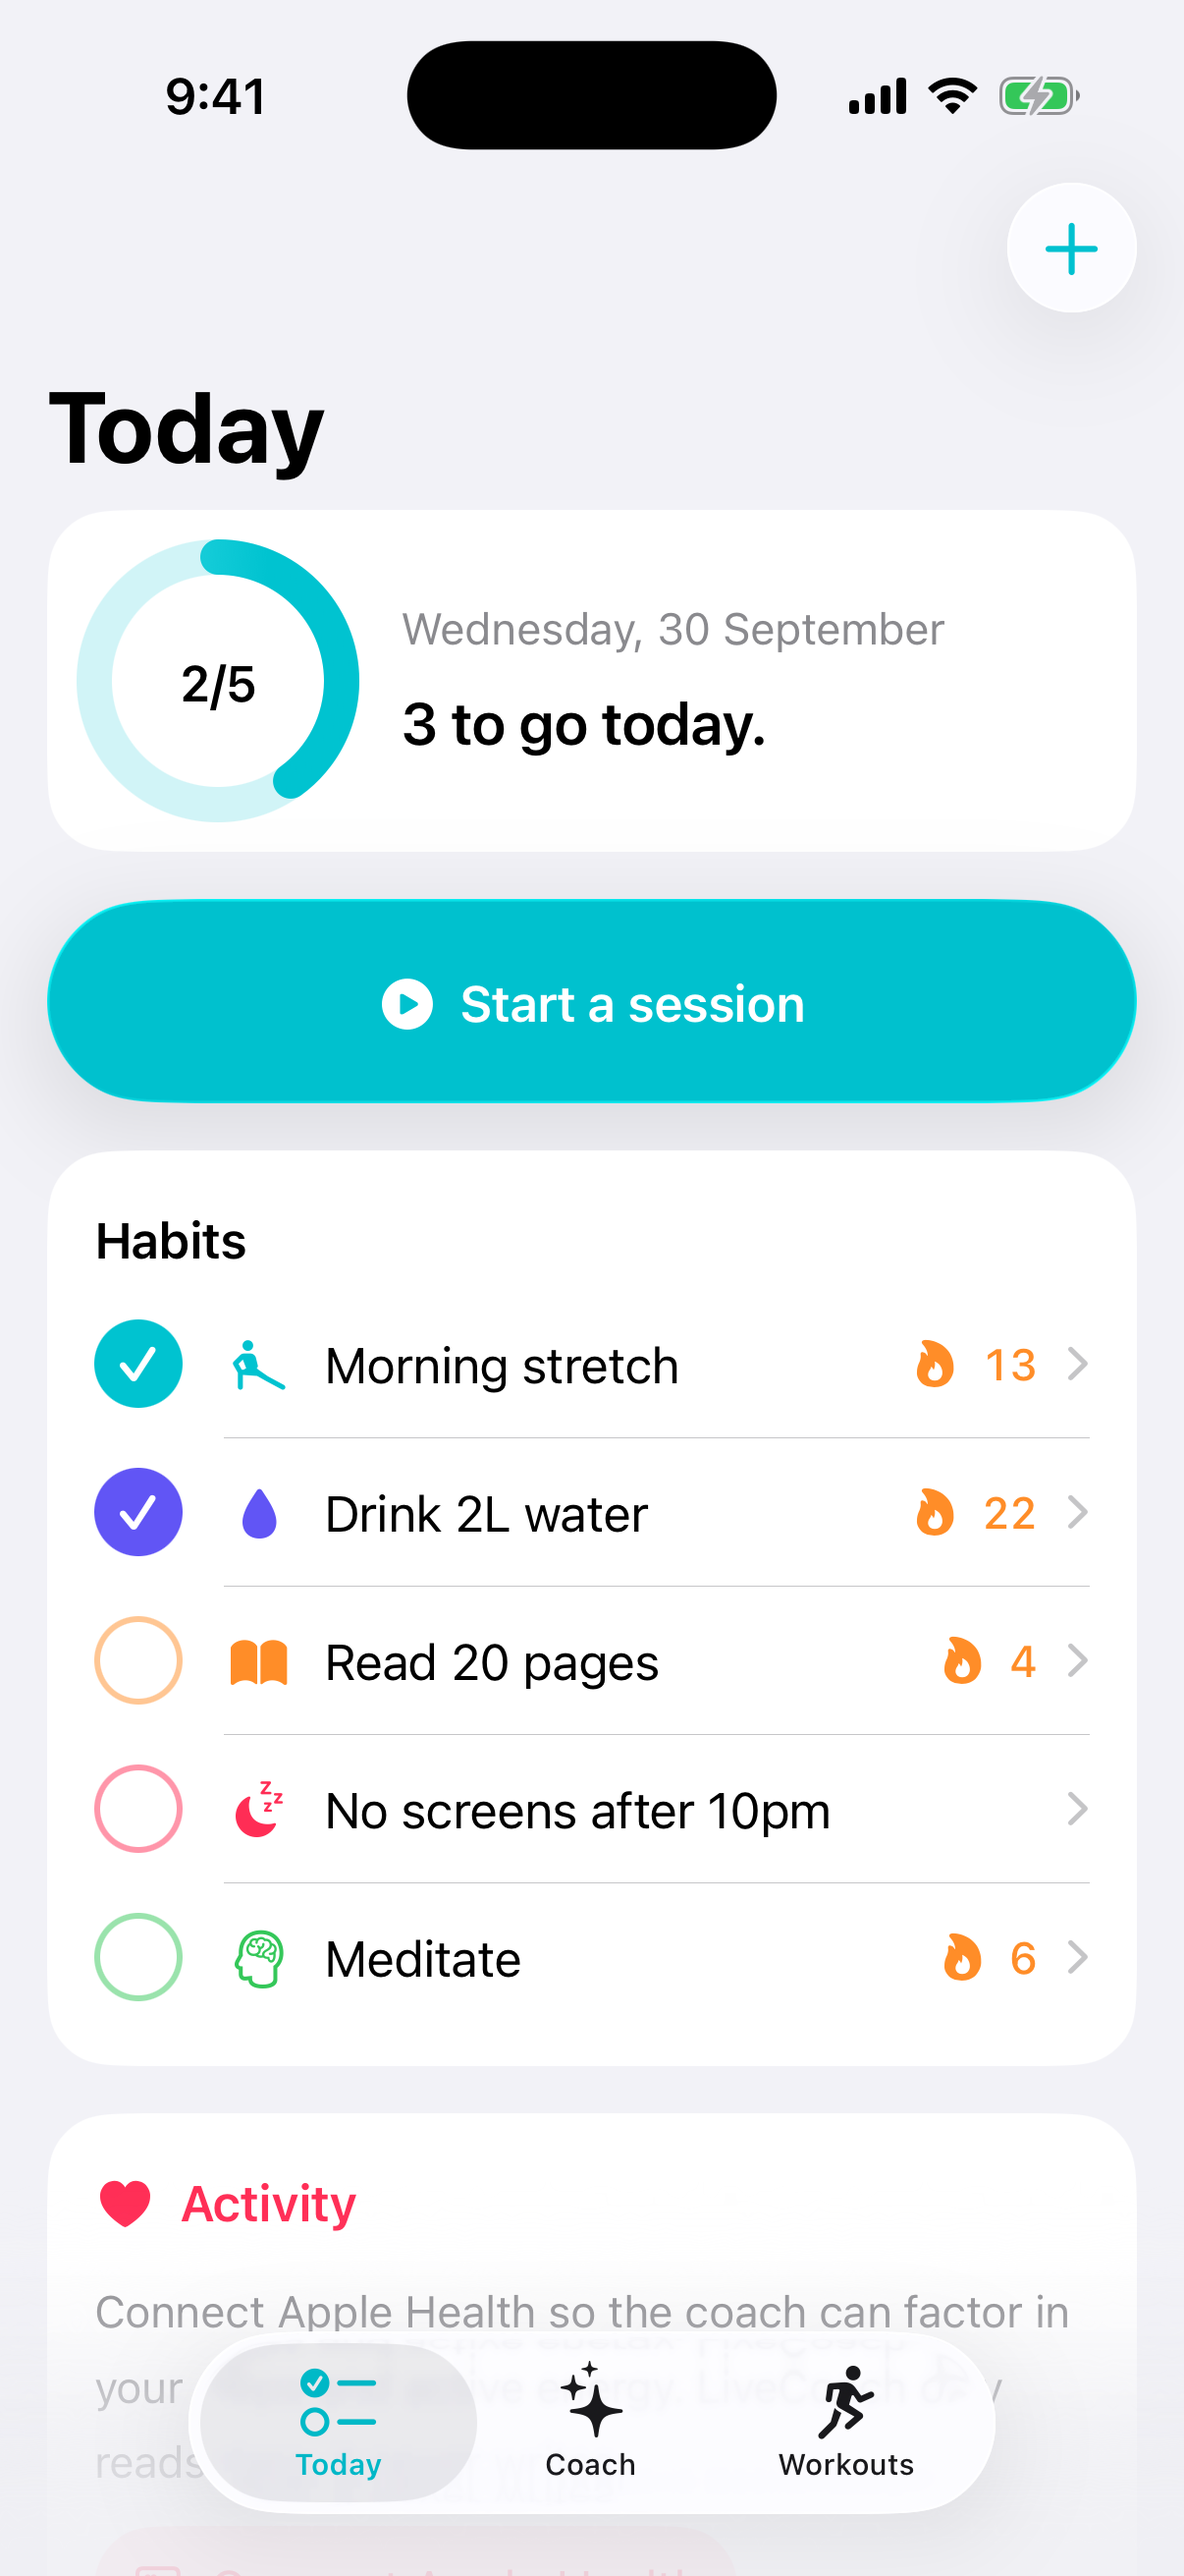
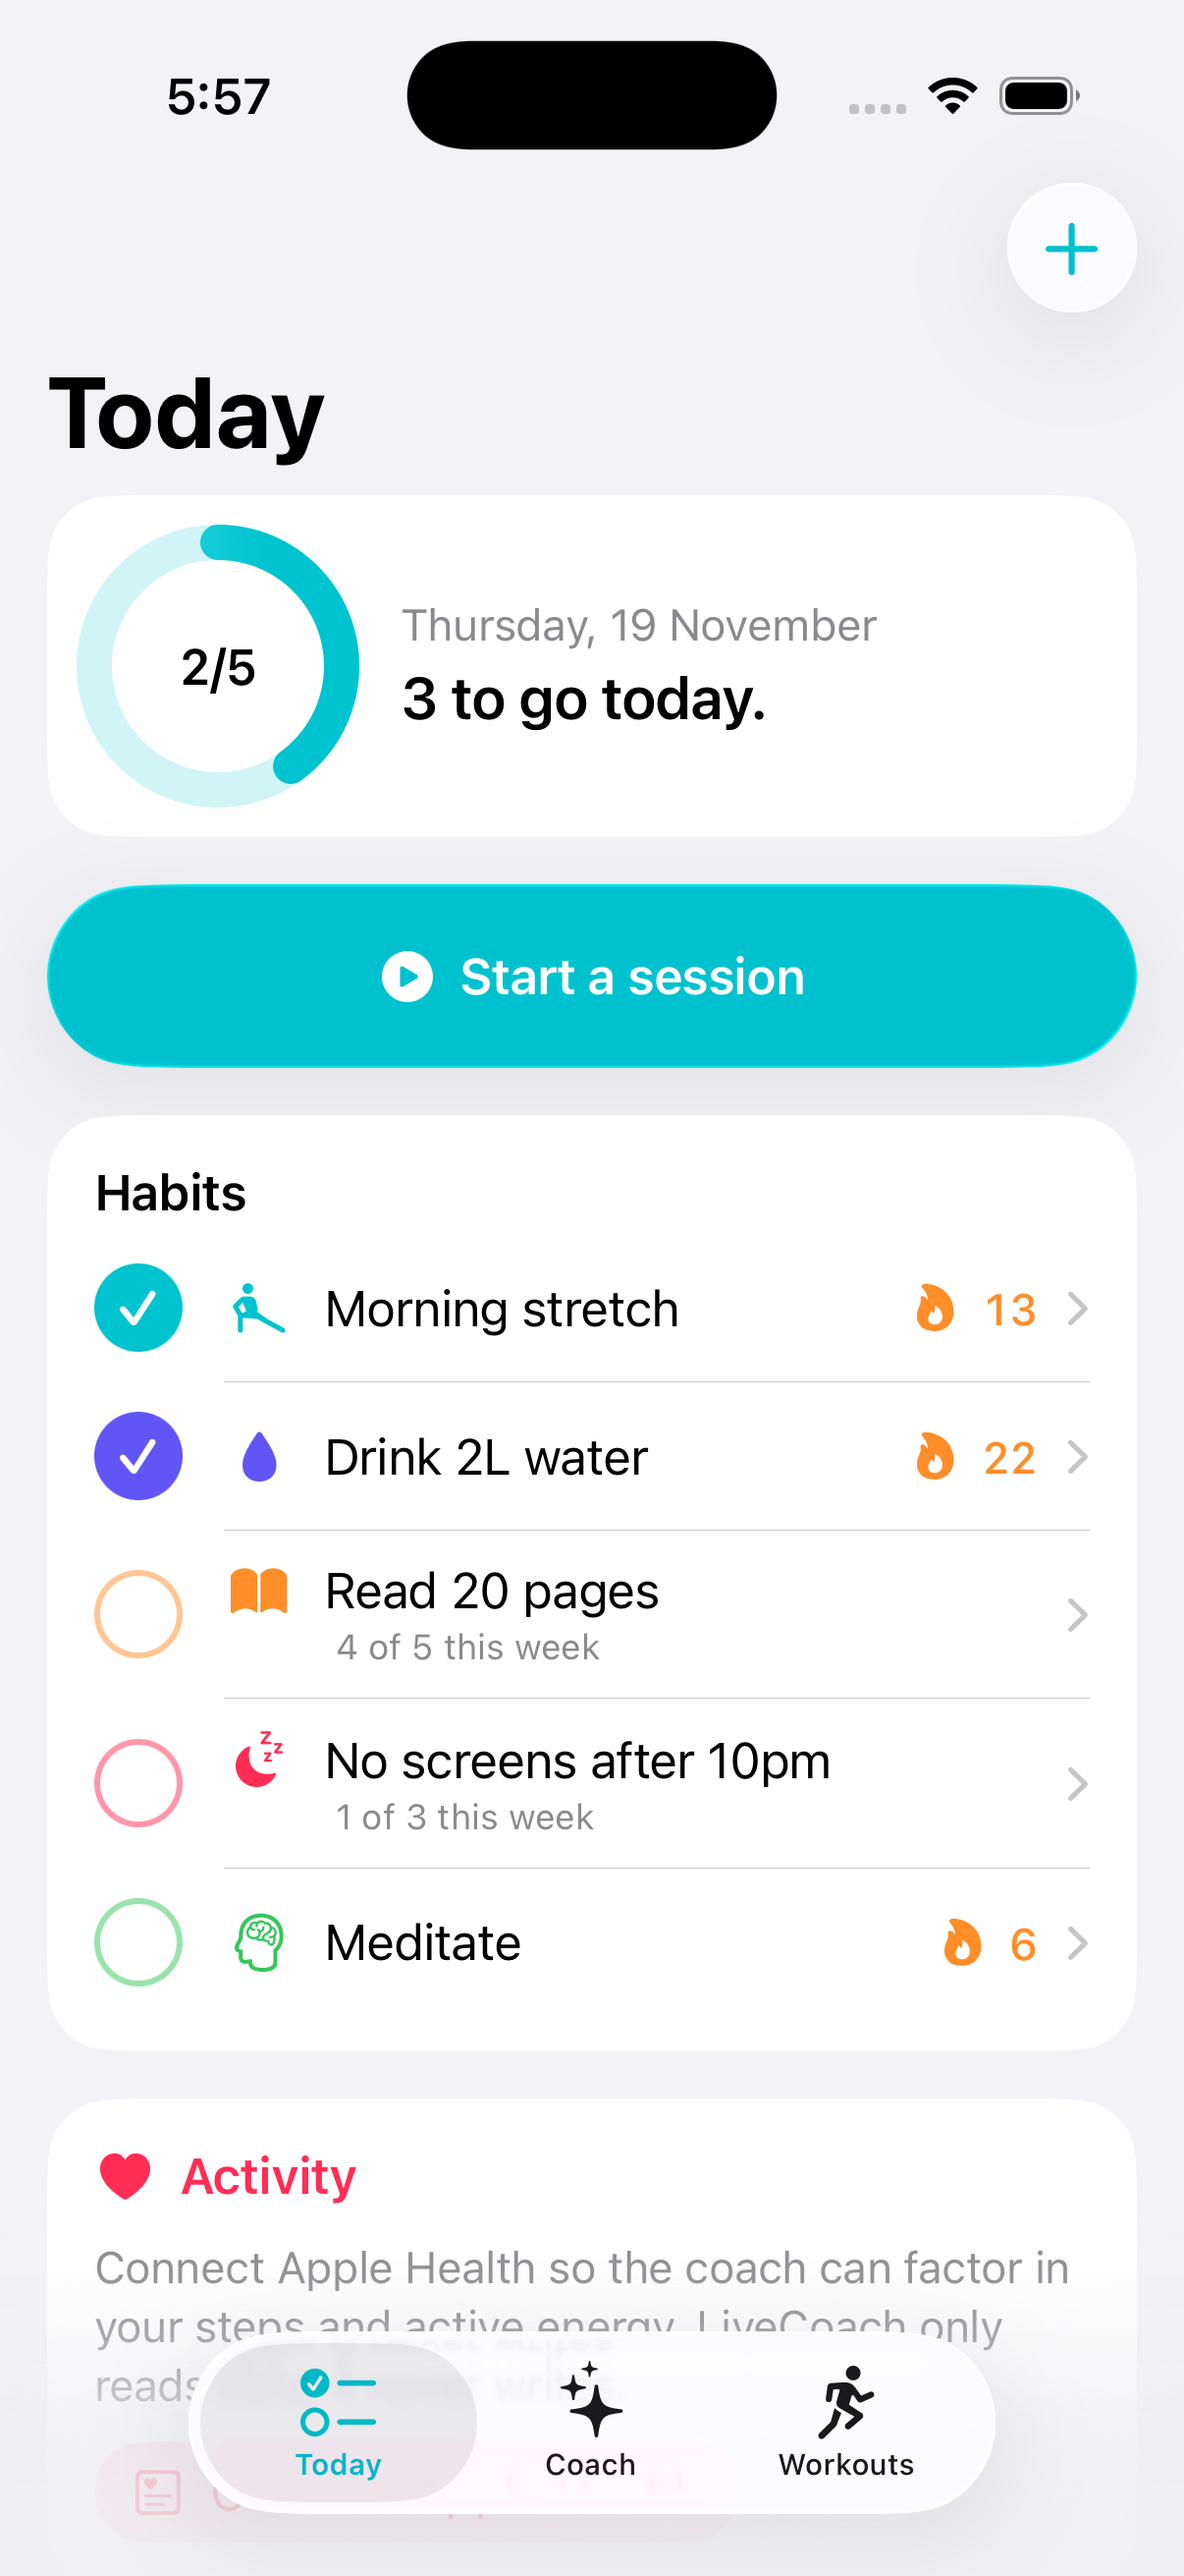
docs: document weekly goals and release 0.2.0

diff --git a/README.md b/README.md
@@ -8,7 +8,7 @@ A native iOS habit and workout coach that plans your week with Apple's on-device
 ![Swift 6](https://img.shields.io/badge/Swift-6-F05138?logo=swift&logoColor=white)
 
 <p>
-  <img src="docs/today.png" width="24%" alt="Today screen with habit checklist and progress ring">
+  <img src="docs/today.png" width="24%" alt="Today screen with habit checklist, progress ring and weekly goal progress">
   <img src="docs/habit-detail.png" width="24%" alt="Habit detail with streaks and a 12-week heatmap">
   <img src="docs/coach-plan.png" width="24%" alt="Weekly plan generated on-device by Apple Intelligence">
   <img src="docs/lock-screen-live-activity.png" width="24%" alt="Workout Live Activity on the Lock Screen">
@@ -29,6 +29,12 @@ Most habit apps stop at a checklist. I wanted a small, complete app that uses th
 - Start a run, strength, yoga, walk or focus session; a Live Activity shows the running timer on the Lock Screen and in the Dynamic Island (compact, minimal and expanded).
 - **Pause/Resume** and **Finish** buttons run `LiveActivityIntent`s, so the session updates without opening the app.
 - The timer uses `Text(timerInterval:)` driven by a pure `SessionClock`, so it ticks without any push updates or timeline reloads.
+
+### Weekly goals
+- A habit can ask for "N days a week" (1 to 6) instead of every day. The Today row shows "2 of 3 this week", turns green when the goal is met and says so when it can no longer be reached.
+- Weekly habits keep a run of consecutive weeks in which the goal was met. A week still in progress neither counts nor breaks the run, the same rule daily streaks use for a day that is not done yet.
+- Weeks follow the device calendar's first weekday, and the arithmetic is on `DayStamp`s, so DST changes, the date line and the new year do not split or merge a week. The goal is set when adding a habit and can be changed later from the habit's menu.
+- Stores created before this release open unchanged: `weeklyTarget` is an optional attribute, so SwiftData migrates it in place. I checked that by seeding a store with the 0.1.0 build and opening it with the new one.
 
 ### Widgets
 - Interactive "Today's Habits" widget (small, medium, large). Each check is a `Button(intent:)` that toggles the habit from the Home Screen and reloads the timeline.
@@ -114,12 +120,13 @@ Run the `LiveCoach` scheme on an iOS 26 simulator. To start with sample habits a
 
 ## Quality
 
-- **34 Swift Testing tests** across the packages, including parameterised cases. They cover streaks across DST transitions in four time zones, travel across time zones, the day Samoa skipped in 2011, session pause/resume maths, SwiftData toggle/cascade behaviour, week summaries, the rule-based planner, the on-device-to-rule-based fallback, and prompt construction.
+- **51 Swift Testing tests** across the packages, including parameterised cases. They cover streaks across DST transitions in four time zones, weekly goals across Sunday-first and Monday-first calendars, the new year and DST, travel across time zones, the day Samoa skipped in 2011, session pause/resume maths, SwiftData toggle/cascade behaviour, week summaries, the rule-based planner, the on-device-to-rule-based fallback, and prompt construction.
 - Run them without a simulator:
   ```sh
   swift test --package-path Packages/CoachCore
   ```
   or all at once through the app scheme with `xcodebuild -scheme LiveCoach -destination 'platform=iOS Simulator,name=iPhone 17 Pro' test`.
+- Not covered yet: the goal picker (add sheet and habit menu) builds and is wired to the same tested logic, but I have not driven it in the simulator or with a UI test. The Today captions and the upgrade from a 0.1.0 store were checked in the simulator.
 - Swift 6 complete concurrency checking with warnings treated as errors; the app, widget and packages build with zero warnings.
 - `swiftlint lint --strict` runs in CI alongside package tests and a full simulator build and test.
 - Accessibility: Dynamic Type throughout (text styles and `@ScaledMetric`), VoiceOver labels, values and hints on the custom check buttons, rings, stat tiles and heatmap.
@@ -127,7 +134,7 @@ Run the `LiveCoach` scheme on an iOS 26 simulator. To start with sample habits a
 ## Roadmap
 
 - Home Screen widget screenshot for the README (the widget works; adding it to the Simulator Home Screen is manual).
-- Weekly targets (e.g. 3x a week) alongside daily habits.
+- Show weekly goal progress in the Home Screen widget.
 - Write completed sessions back to HealthKit as workouts, behind a separate permission.
 - Snapshot tests for the CoachUI components and a UI test for the start/pause/finish flow.
 - Push-to-update Live Activities so a session started on another device stays in sync.

diff --git a/CHANGELOG.md b/CHANGELOG.md
@@ -4,6 +4,16 @@ All notable changes to this project are documented here. The format follows [Kee
 
 ## [Unreleased]
 
+## [0.2.0] - 2026-11-19
+
+### Added
+- Weekly goals: a habit can target 1 to 6 check-ins per calendar week, with progress on the Today row, a "This week" tile and a week streak on the habit detail, and a goal picker when adding a habit or from its menu.
+- `WeeklyGoal`, `WeeklyProgress` and `DayStamp.startOfWeek` in `CoachCore`, tested across first-weekday settings, DST, the date line and year boundaries.
+- Two demo habits with weekly goals.
+
+### Changed
+- `Habit` gains an optional `weeklyTarget`; existing stores migrate in place.
+
 ## [0.1.0] - 2026-09-30
 
 ### Added
@@ -17,5 +27,6 @@ All notable changes to this project are documented here. The format follows [Kee
 - `livecoach://` deep links and a `-demoData` launch argument.
 - CI with SwiftLint, package tests and a simulator build and test.
 
-[Unreleased]: https://github.com/OwaisMunawar/swiftui-live-coach/compare/v0.1.0...HEAD
+[Unreleased]: https://github.com/OwaisMunawar/swiftui-live-coach/compare/v0.2.0...HEAD
+[0.2.0]: https://github.com/OwaisMunawar/swiftui-live-coach/compare/v0.1.0...v0.2.0
 [0.1.0]: https://github.com/OwaisMunawar/swiftui-live-coach/releases/tag/v0.1.0
